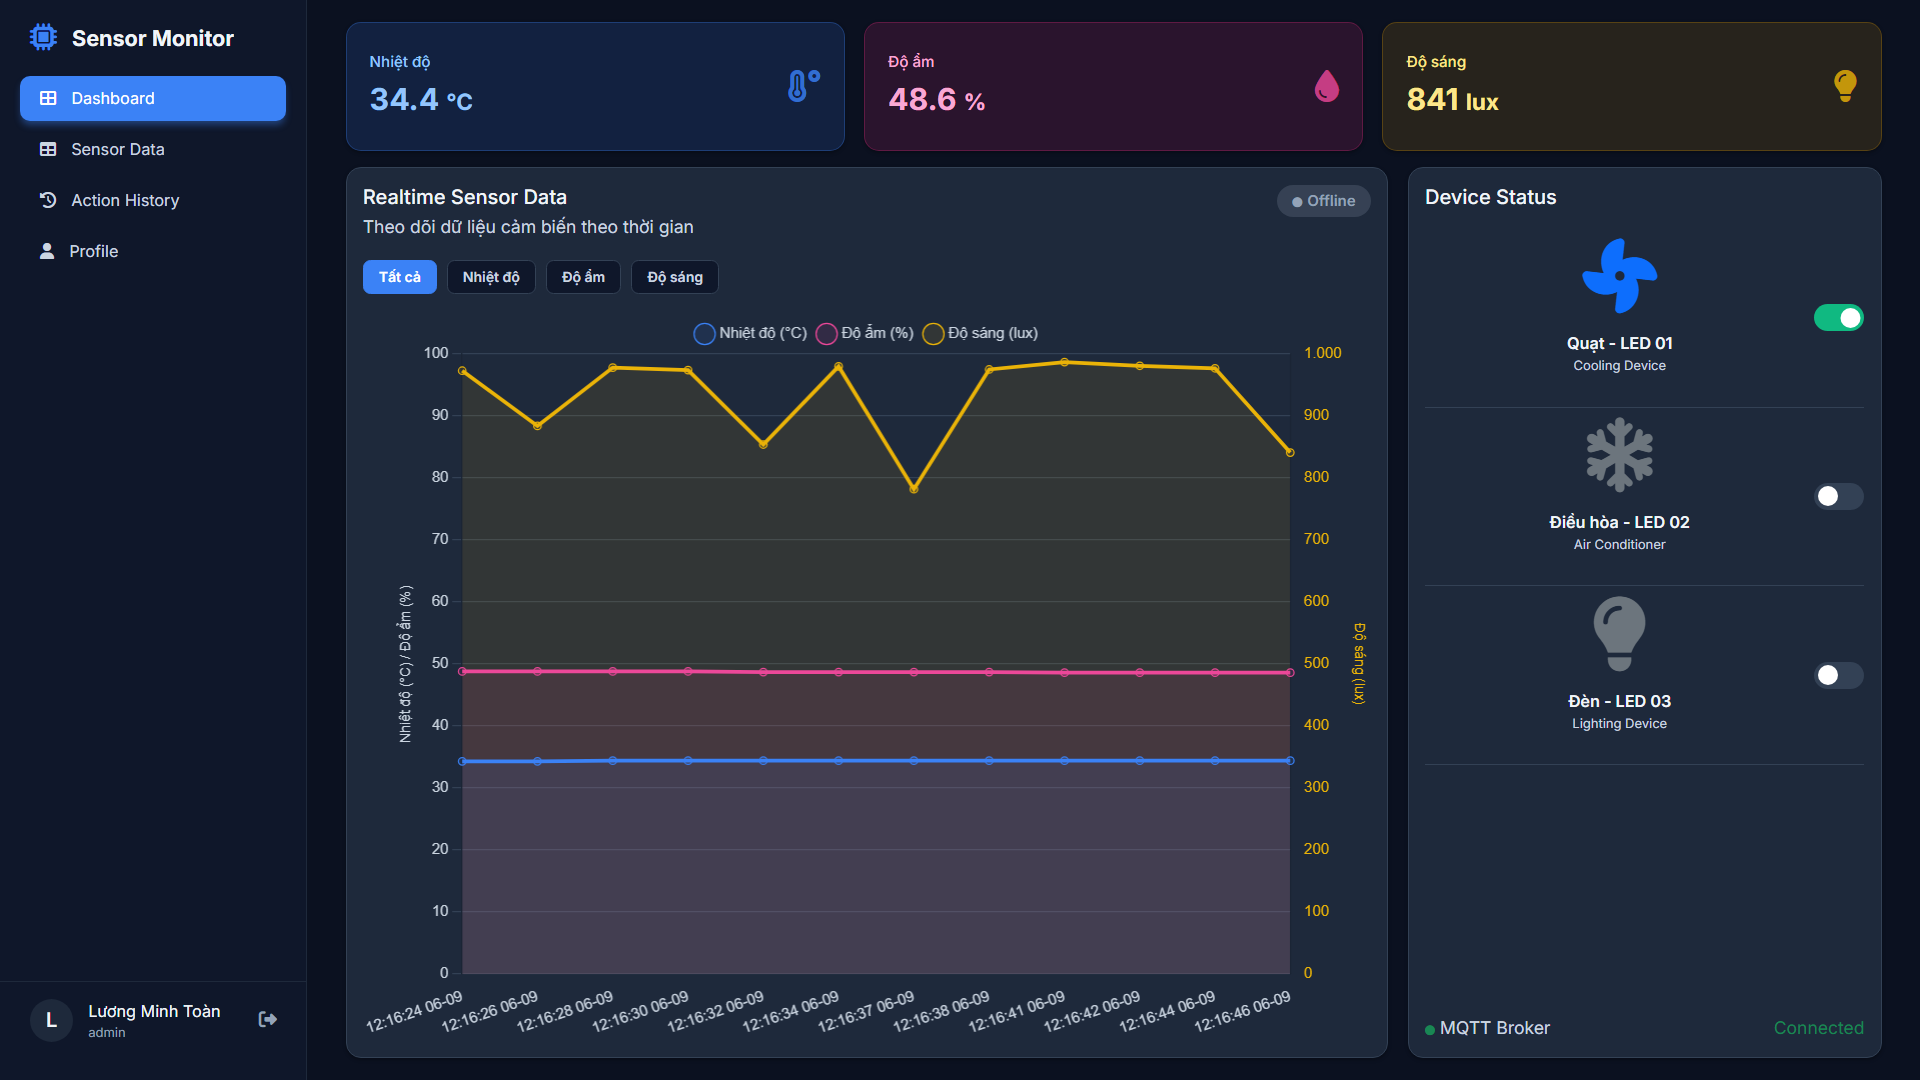
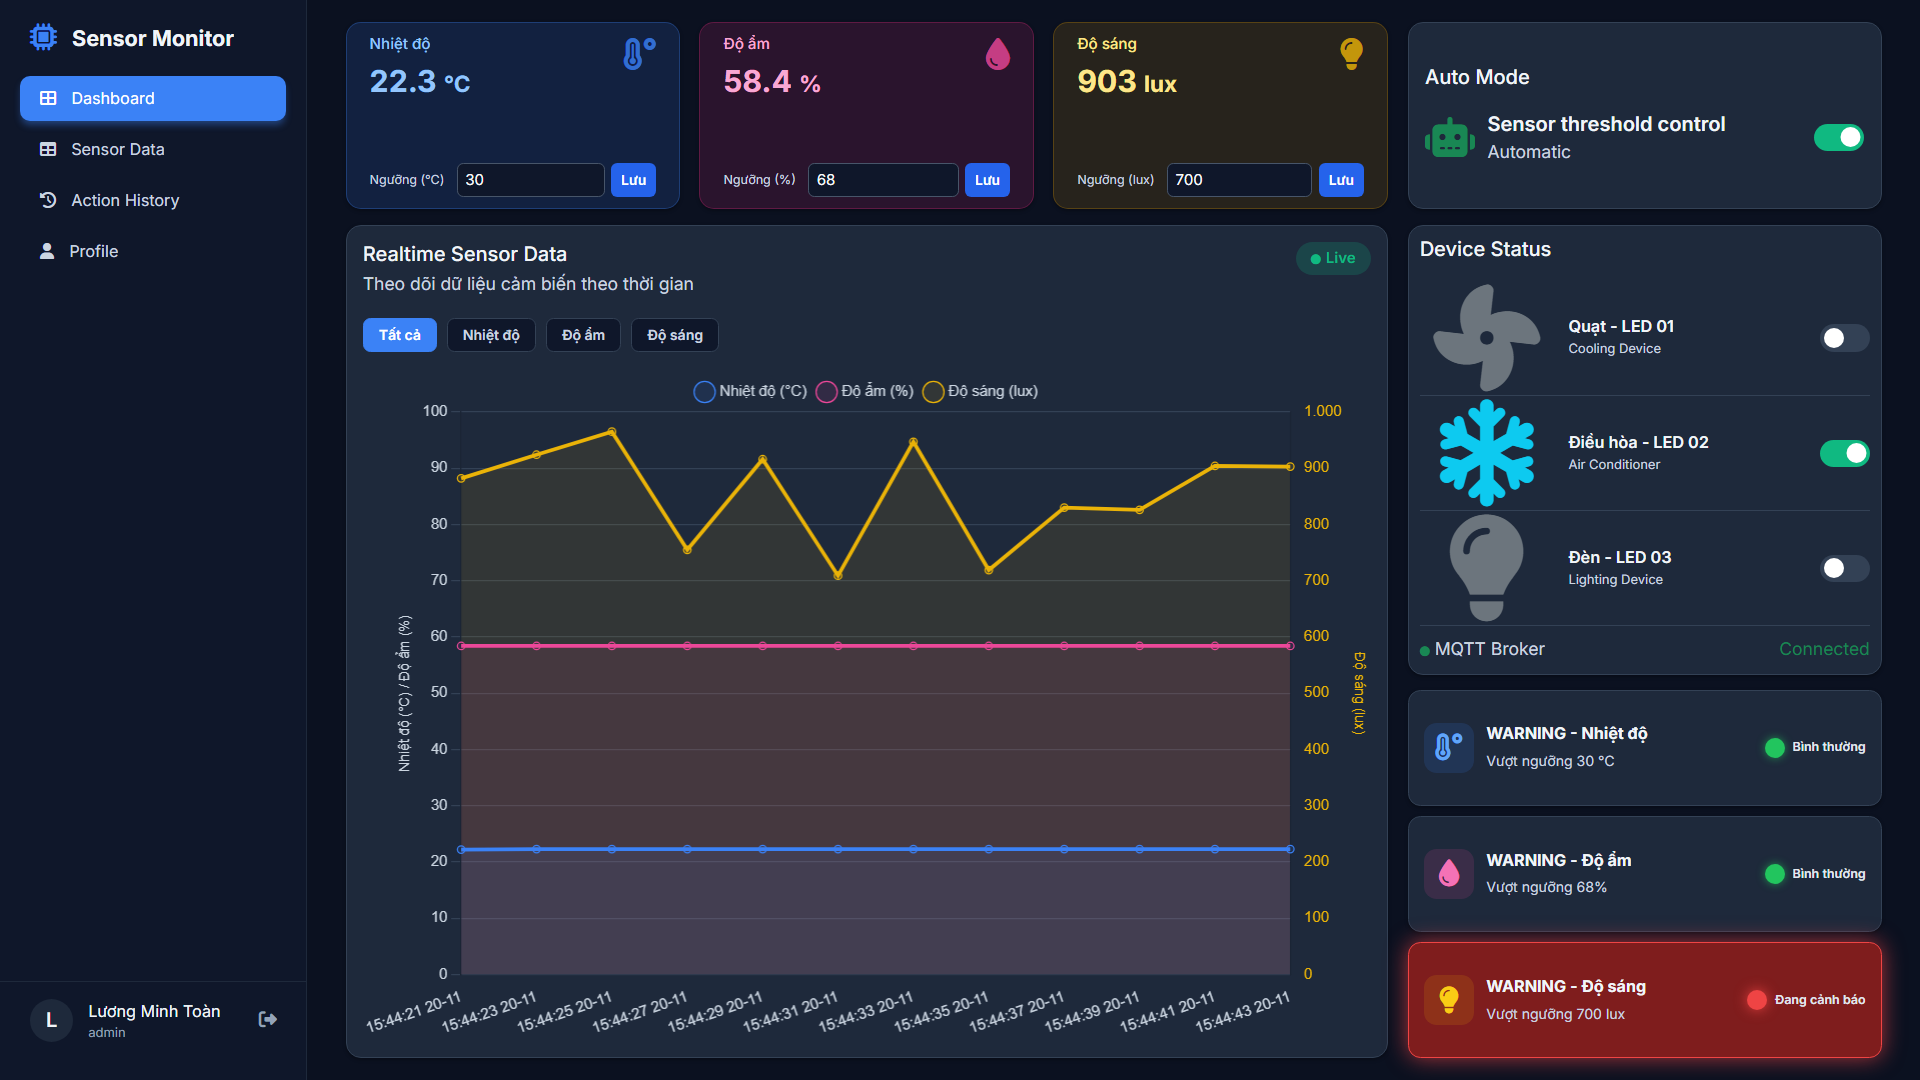
Replace README dashboard screenshot

diff --git a/full_stack/README.md b/full_stack/README.md
@@ -243,7 +243,7 @@ Hệ thống có các trang đăng nhập, Dashboard/biểu đồ, Sensor Data, 
 
 ### 6.1 Ảnh giao diện Web
 
-Các ảnh dưới đây là giao diện được trình bày trong báo cáo. Màn hình Dashboard có các công tắc điều khiển LED ở cùng trang; báo cáo không có ảnh chụp riêng cho trang cảnh báo mới.
+Ảnh Login, Sensor Data, Action History và Profile được trích từ báo cáo. Ảnh Dashboard bên dưới là ảnh mới được cung cấp, thể hiện chế độ Auto, điều khiển LED và trạng thái cảnh báo của ba cảm biến. Báo cáo không có ảnh chụp riêng cho trang cảnh báo.
 
 #### Đăng nhập
 
@@ -251,7 +251,7 @@ Các ảnh dưới đây là giao diện được trình bày trong báo cáo. M
 
 #### Dashboard và điều khiển thiết bị
 
-![Dashboard với thẻ cảm biến, biểu đồ realtime và công tắc thiết bị](docs/screenshots/dashboard.png)
+![Dashboard mới với chế độ Auto, biểu đồ realtime, công tắc thiết bị và ba thẻ cảnh báo](docs/screenshots/dashboard.png)
 
 #### Sensor Data
 
